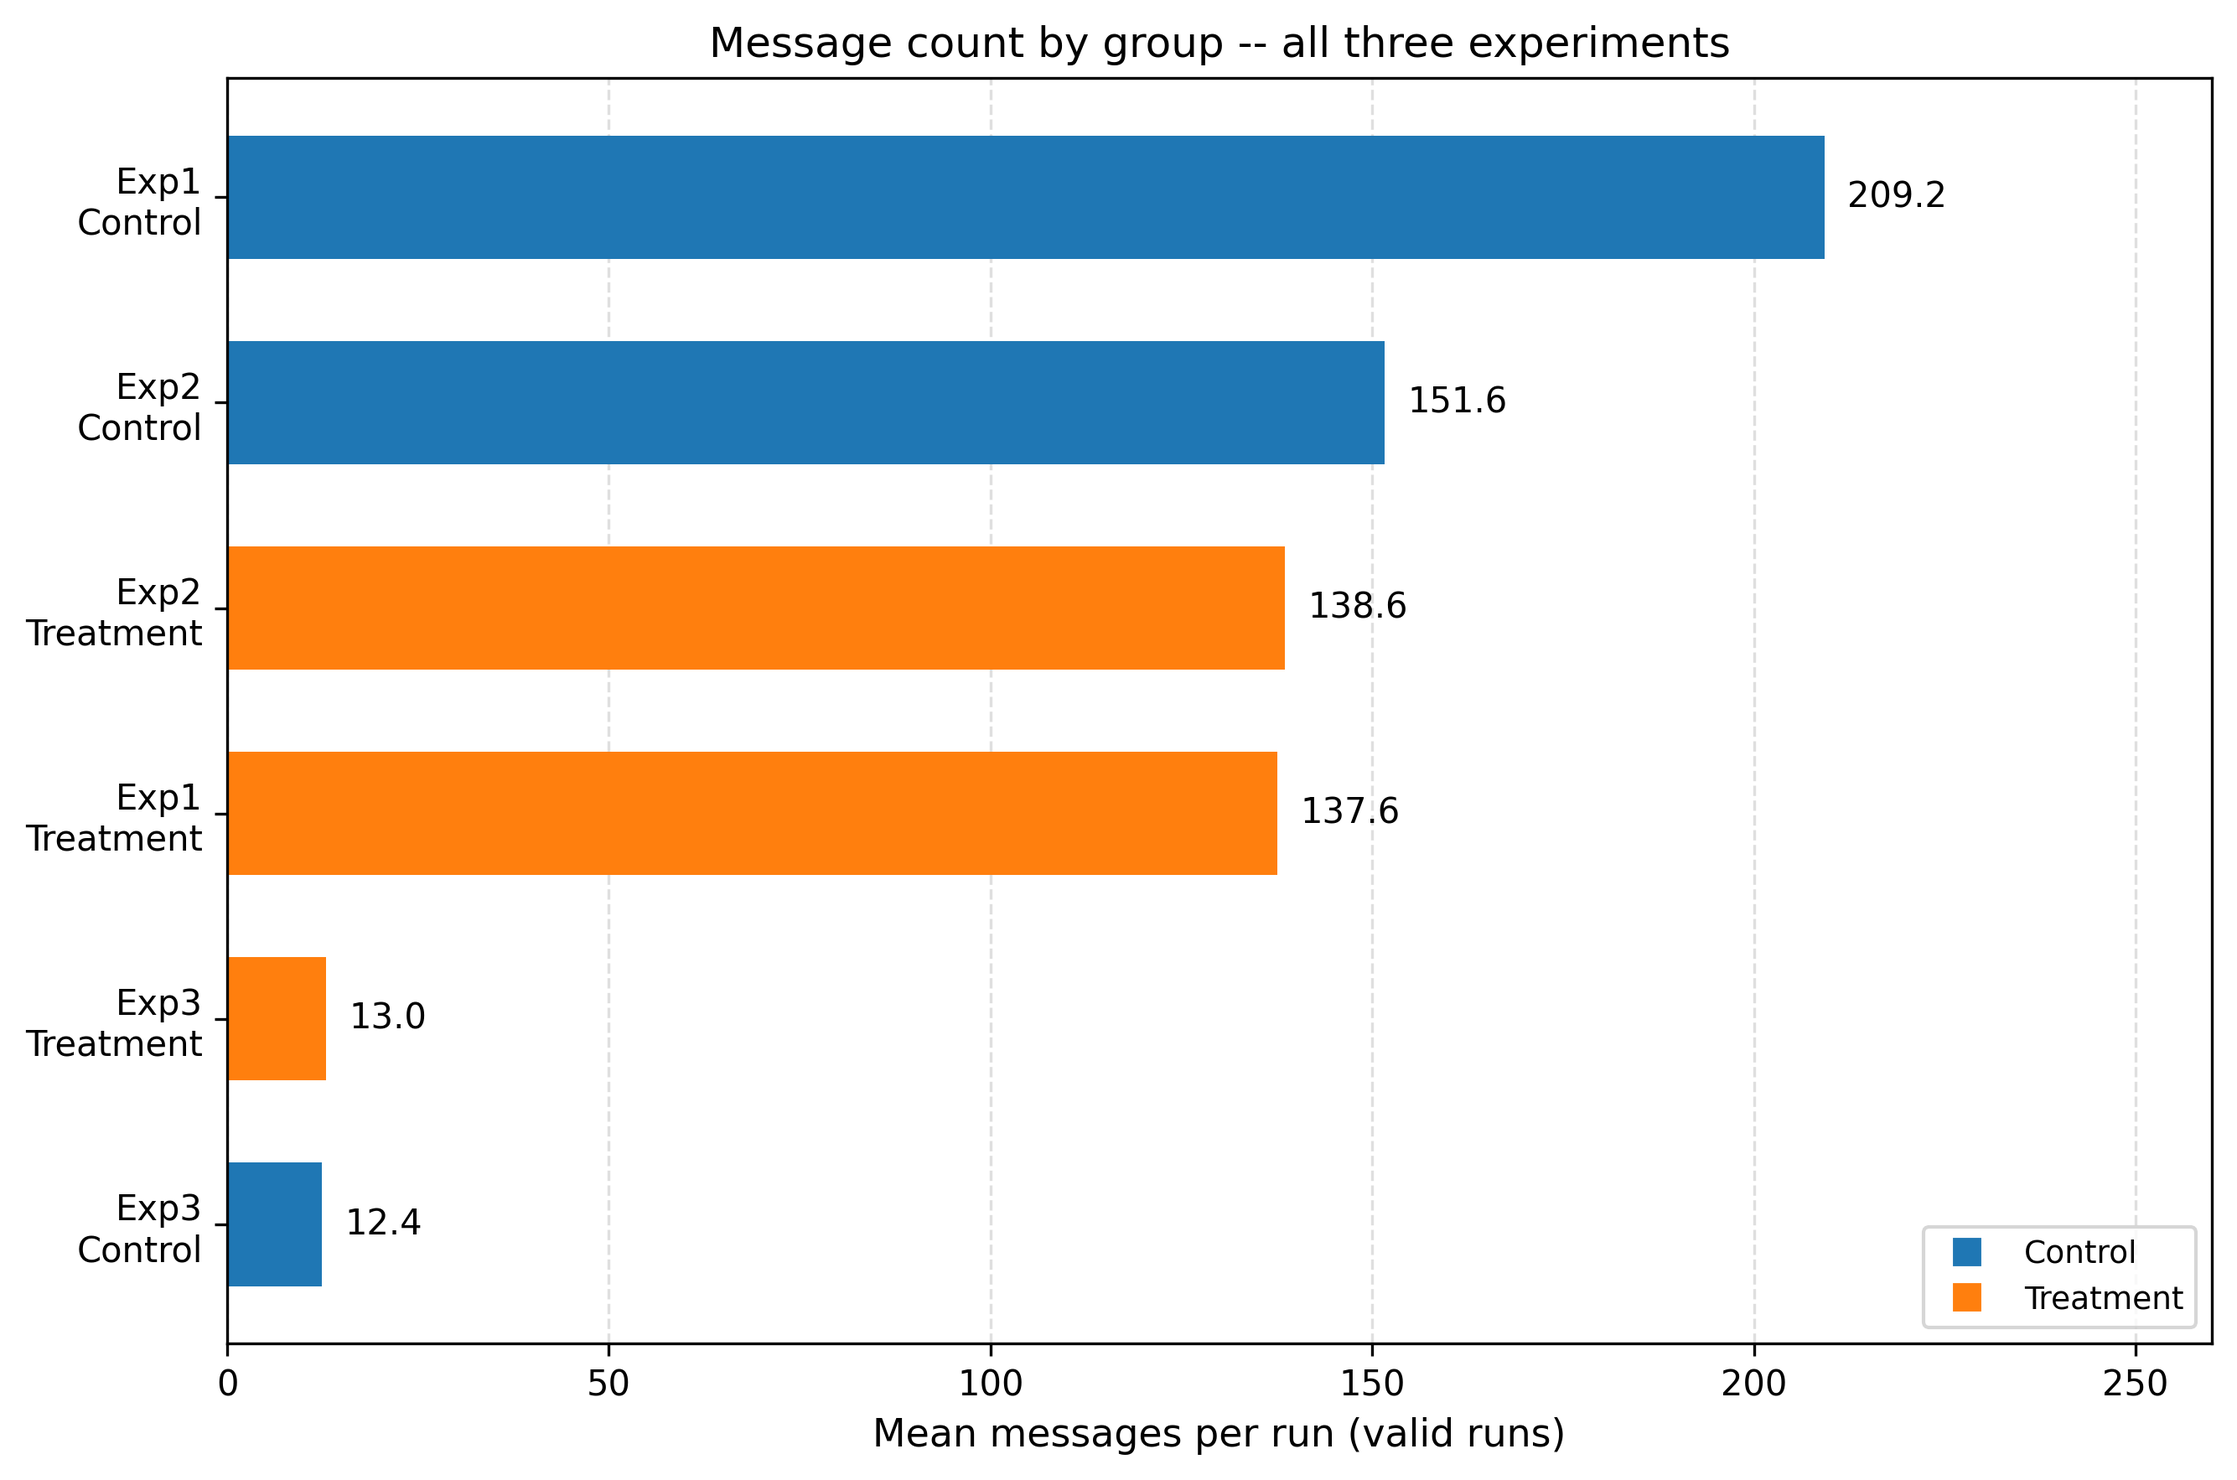
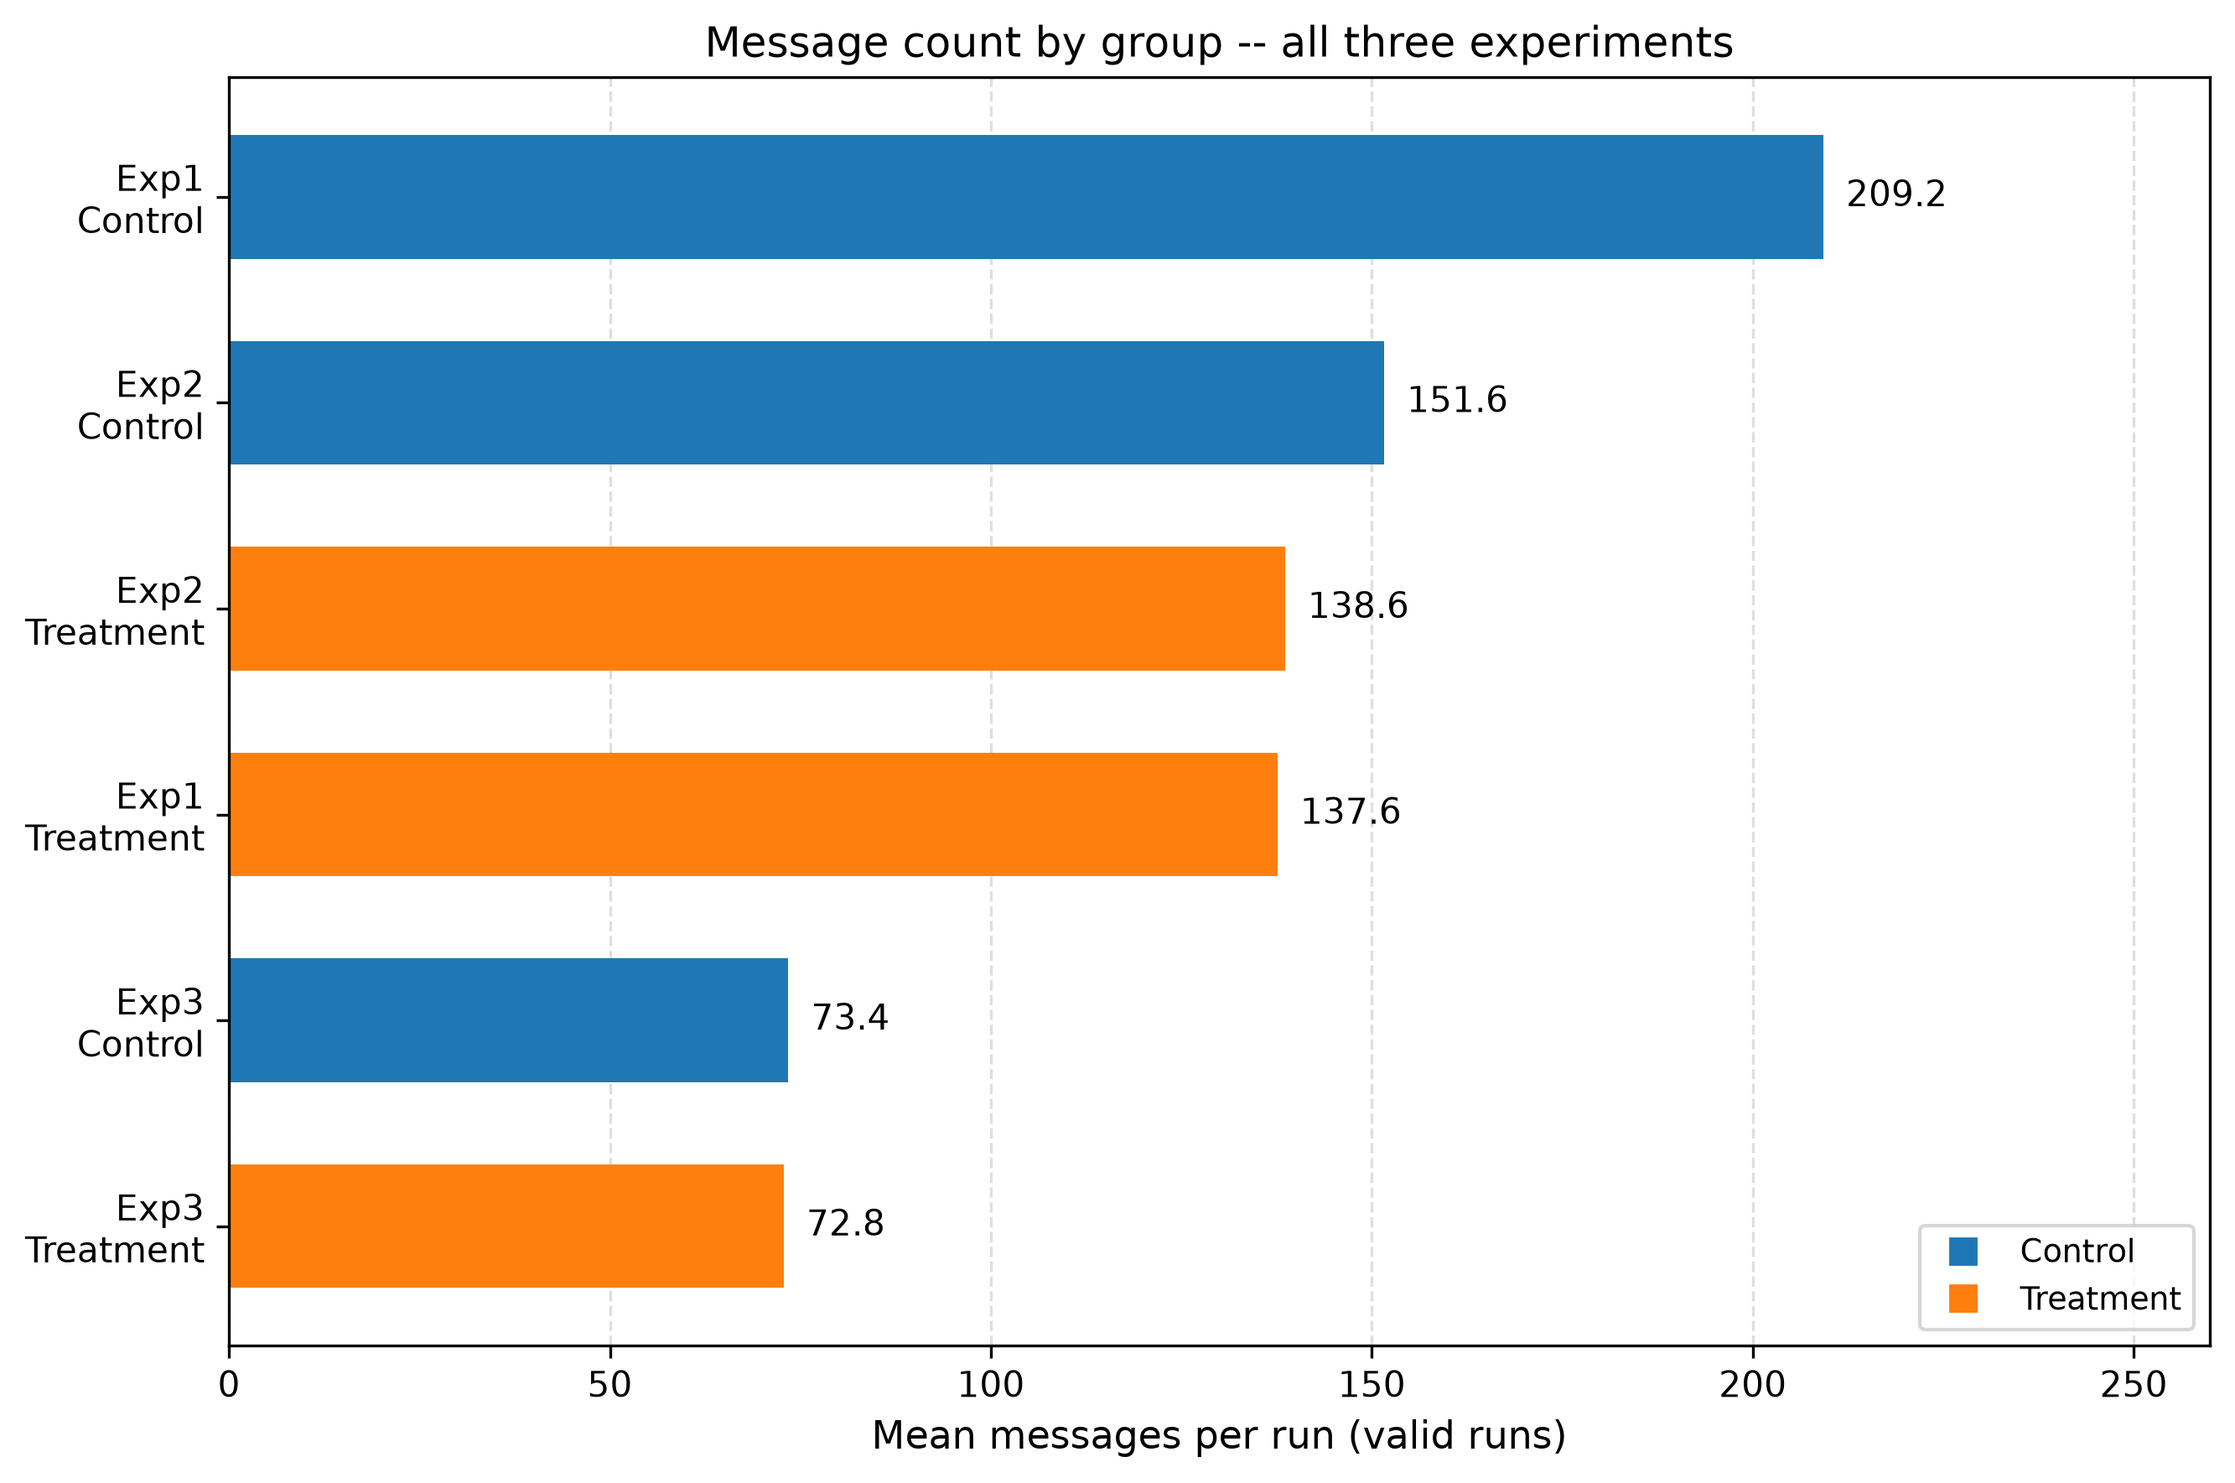
fix(docs): reconcile message counts and Leviathan reference (#107)
Closes #100

diff --git a/paper/paper.tex b/paper/paper.tex
@@ -55,7 +55,7 @@ non-reasoning large language models on retrieval and multiple-choice benchmarks.
 instructions produces similar gains in multi-step agentic pipelines.
 \textbf{Method:} Three pre-registered controlled experiments used Claude Haiku 4.5 delegates
 ($n{=}5$ per condition, temperature 0.5) assigned either a single-copy or a repeated-prompt
-instruction under blinded binary rubric scoring, totalling 30 sessions and 3,196 messages.
+instruction under blinded binary rubric scoring, totalling 30 sessions and 3{,}707 messages.
 \textbf{Results:} Experiment~1 (session-ID refactoring, 6 criteria) yielded a non-significant
 score delta of $+0.30$ with five of six criteria saturated at 100\% in both groups
 (Fisher's $p{=}1.000$).
@@ -318,8 +318,8 @@ In Experiment~1, treatment agents consumed 30.6\% fewer total tokens than contro
 In Experiment~2, treatment agents used 7.2\% more total tokens than control
 (median 703{,}993 vs.\ 755{,}144); sessions were already saturated and no turns were eliminated,
 so the doubled prompt added net input overhead. In Experiment~3, treatment agents
-consumed 19.9\% more total tokens than control (median 41{,}880 vs.\ 50{,}220); sessions averaged
-12 messages with no turns saved, so the doubled prompt imposed pure input overhead with no performance gain.
+consumed 19.9\% more total tokens than control (median 41{,}880 vs.\ 50{,}220); sessions ran to a median
+of 70 messages (control) and 82 messages (treatment) with no turns saved, so the doubled prompt imposed pure input overhead with no performance gain.
 
 \begin{table}[h]
 \centering
@@ -337,8 +337,8 @@ Experiment & Condition & Median Total Tokens & Median Messages & Median Latency 
 \multirow{2}{*}{Exp2} & Control   & 703{,}993  & 142   & 117 \\
                       & Treatment & 755{,}144  & 142   & 112 \\
 \addlinespace
-\multirow{2}{*}{Exp3} & Control   &  41{,}880  &  12   &  62 \\
-                      & Treatment &  50{,}220  &  12   &  72 \\
+\multirow{2}{*}{Exp3} & Control   &  41{,}880  &  70   &  62 \\
+                      & Treatment &  50{,}220  &  82   &  72 \\
 \bottomrule
 \end{tabular}
 \end{table}
@@ -401,7 +401,7 @@ prompt adds $p$ tokens to every prefill. Each avoided turn eliminates $\bar{c}$ 
 accumulated context, where $\bar{c}$ grows with session length. The crossover point $L^*$
 satisfies $p = \bar{c}(L^* - 1)$, giving $L^* \approx p/\bar{c} + 1$: sessions longer than
 $L^*$ yield a net token saving; sessions shorter than $L^*$ incur overhead. For Experiment~3 ($p \approx 950$, $\bar{c} \approx
-3{,}300$ tokens/message), $L^* \approx 1.3$ messages, well below the observed 12-message median.
+600$ tokens/message, from median totals of 41{,}880 and 50{,}220 tokens over 70 and 82 messages), $L^* \approx 950/600 + 1 \approx 2.6$ messages, well below the observed 70- and 82-message medians.
 Yet treatment agents still consumed more tokens, because repeated instructions did not reduce
 turn count: agents could not complete structurally unreachable criteria regardless of
 instruction emphasis, so the turn-count assumption underlying $L^*$ does not hold under

diff --git a/figures/fig3-message-counts.py b/figures/fig3-message-counts.py
@@ -4,9 +4,9 @@ import matplotlib.pyplot as plt
 from matplotlib.lines import Line2D
 
 # Sorted data (ascending by value)
-labels_sorted = ["Exp3\nControl", "Exp3\nTreatment", "Exp1\nTreatment", "Exp2\nTreatment", "Exp2\nControl", "Exp1\nControl"]
-values_sorted = [12.4, 13.0, 137.6, 138.6, 151.6, 209.25]
-colors_sorted = ["#1f77b4", "#ff7f0e", "#ff7f0e", "#ff7f0e", "#1f77b4", "#1f77b4"]
+labels_sorted = ["Exp3\nTreatment", "Exp3\nControl", "Exp1\nTreatment", "Exp2\nTreatment", "Exp2\nControl", "Exp1\nControl"]
+values_sorted = [72.8, 73.4, 137.6, 138.6, 151.6, 209.25]
+colors_sorted = ["#ff7f0e", "#1f77b4", "#ff7f0e", "#ff7f0e", "#1f77b4", "#1f77b4"]
 
 fig, ax = plt.subplots(figsize=(9, 6))
 

diff --git a/README.md b/README.md
@@ -10,7 +10,7 @@
 
 ## Abstract
 
-Verbatim duplication of an input prompt (prompt repetition) has been shown to improve accuracy for non-reasoning LLMs on retrieval and multiple-choice benchmarks (Leviathan et al., 2025). We ask whether the same intervention applied to fixed delegate instructions produces similar gains in multi-step agentic pipelines. We present three pre-registered controlled experiments in which Claude Haiku 4.5 delegates (n=5 per condition, temperature 0.5) were assigned either a single-copy or a repeated-prompt instruction under blinded binary rubric scoring, totalling 30 sessions and 3,196 messages. Experiment 1 (session-ID refactoring, 6 criteria) yielded a non-significant score delta of +0.30, with five of six criteria saturated at 100% in both groups. Experiment 2 (tree-sitter scanner evaluation, 7 criteria) produced a complete ceiling effect with all 10 runs scoring 7/7 (Mann-Whitney U=12.5, p=1.000). Experiment 3 (Kotlin grammar synthesis, 7 criteria) revealed a distinct failure mode: three of seven criteria scored 0/10 across both groups due to rubric-runner co-design failure, where criteria required investigations absent from the runner prompt; on the four reachable criteria the treatment effect was non-significant (U=15, p=0.607). Across all three experiments we detect no effect of prompt repetition on task success. Two calibration failure modes suppressed treatment signal: performance saturation (Experiments 1 and 2) and rubric-runner misalignment (Experiment 3); both are identifiable from the data and constitute methodological findings in their own right.
+Verbatim duplication of an input prompt (prompt repetition) has been shown to improve accuracy for non-reasoning LLMs on retrieval and multiple-choice benchmarks (Leviathan et al., 2025). We ask whether the same intervention applied to fixed delegate instructions produces similar gains in multi-step agentic pipelines. We present three pre-registered controlled experiments in which Claude Haiku 4.5 delegates (n=5 per condition, temperature 0.5) were assigned either a single-copy or a repeated-prompt instruction under blinded binary rubric scoring, totalling 30 sessions and 3,707 messages. Experiment 1 (session-ID refactoring, 6 criteria) yielded a non-significant score delta of +0.30, with five of six criteria saturated at 100% in both groups. Experiment 2 (tree-sitter scanner evaluation, 7 criteria) produced a complete ceiling effect with all 10 runs scoring 7/7 (Mann-Whitney U=12.5, p=1.000). Experiment 3 (Kotlin grammar synthesis, 7 criteria) revealed a distinct failure mode: three of seven criteria scored 0/10 across both groups due to rubric-runner co-design failure, where criteria required investigations absent from the runner prompt; on the four reachable criteria the treatment effect was non-significant (U=15, p=0.607). Across all three experiments we detect no effect of prompt repetition on task success. Two calibration failure modes suppressed treatment signal: performance saturation (Experiments 1 and 2) and rubric-runner misalignment (Experiment 3); both are identifiable from the data and constitute methodological findings in their own right.
 
 Supplementary data for [Ceiling Effects and Convergence: Null Results for Instruction Repetition in LLM-Agent Pipelines](https://clouatre.ca/posts/prompt-repetition-agent-evaluation/). Clouatre, HEC Montréal, 2026.
 
@@ -41,7 +41,7 @@ Experiment setup:
   +-- Treatment group:  5 delegates with repeated instructions (x2)
   +-- Blind scorer:     Rubric-based evaluation (sealed before scoring)
 
-  x3 experiments = 30 delegates total, 3,196 messages, 30 session logs
+  x3 experiments = 30 delegates total, 3,707 messages (3,800 including the excluded Exp1 drift run), 30 session logs
 ```
 
 ---
@@ -391,7 +391,7 @@ This repository contains everything needed to verify our claims and reproduce th
 
 - **Pre-registered protocols** with sealed group assignments (`label-map.json` timestamps predate all scoring)
 - **Exact delegate prompts** preserved as the first message in each `raw/*.jsonl` session log
-- **Full conversation traces** (3,196 messages across 30 session logs) for auditing agent behavior
+- **Full conversation traces** (3,707 messages across 29 valid sessions; 3,800 across all 30 session logs) for auditing agent behavior
 - **Per-criterion scoring justifications** in `scores.json`, not just aggregate numbers
 
 To reproduce with different tasks or models, follow the protocols in `experiments/*/protocol.md` and substitute your target issue and model. The recipe (`recipe/goose-coder-v4.1.0.yaml`) defines the full agent architecture.

diff --git a/experiments/exp3-kotlin-grammar/protocol.md b/experiments/exp3-kotlin-grammar/protocol.md
@@ -19,7 +19,7 @@ These amendments are administrative and methodological. Neither changes rubric c
 
 The target issue [clouatre-labs/code-analyze-mcp#649](https://github.com/clouatre-labs/code-analyze-mcp/issues/649) asks for adding Kotlin grammar support using `tree-sitter-kotlin` version 0.3.8. This requires code synthesis beyond the issue text: confirming language registration, ABI compatibility, node-kind handling, and test coverage for both `.kt` and `.kts` files. The prior experiment (exp2) showed ceiling effects when the rubric was too easy; here the rubric includes six synthesis criteria (C1-C6) and one verification criterion (C7).
 
-Paper: [Leviathan et al. (2025)](https://arxiv.org/abs/2502.07869) - repeating the input prompt verbatim improves non-reasoning LLM accuracy (47/70 wins, 0 losses across 7 models).
+Paper: [Leviathan et al. (2025)](https://arxiv.org/abs/2512.14982) - repeating the input prompt verbatim improves non-reasoning LLM accuracy (47/70 wins, 0 losses across 7 models).
 
 ---
 
@@ -154,7 +154,7 @@ Scoring is binary per criterion (1 = met, 0 = not met). Half-credit is not permi
 
 ## References
 
-- Leviathan, Y. et al., "Prompt Repetition Improves Non-Reasoning LLMs" (2025) - https://arxiv.org/abs/2502.07869
+- Leviathan, Y. et al., "Prompt Repetition Improves Non-Reasoning LLMs" (2025) - https://arxiv.org/abs/2512.14982
 - Experiment 1: [exp1-fastmcp-refactor](../exp1-fastmcp-refactor/protocol.md)
 - Experiment 2: [exp2-treesitter-synthesis](../exp2-treesitter-synthesis/protocol.md)
 - Target issue: https://github.com/clouatre-labs/code-analyze-mcp/issues/649

diff --git a/experiments/exp2-treesitter-synthesis/protocol.md b/experiments/exp2-treesitter-synthesis/protocol.md
@@ -10,7 +10,7 @@ This is the second experiment in the prompt repetition series, designed to addre
 
 The first experiment (FastMCP refactor analysis) produced a null result because the task was too easy: C1-C4 and C6 hit 100% in both groups. This experiment targets a harder issue that requires synthesis across the codebase, external API research, and judgment under ambiguity -- not just information retrieval. Ceiling effect is unlikely.
 
-Paper: [Leviathan et al. (2025)](https://arxiv.org/abs/2502.07869) -- repeating the input prompt verbatim improves non-reasoning LLM accuracy (47/70 wins, 0 losses across 7 models).
+Paper: [Leviathan et al. (2025)](https://arxiv.org/abs/2512.14982) -- repeating the input prompt verbatim improves non-reasoning LLM accuracy (47/70 wins, 0 losses across 7 models).
 
 ## Why This Task is Harder
 
@@ -139,7 +139,7 @@ Scoring is binary per criterion (1 = met, 0 = not met). Half-credit is not permi
 
 ## References
 
-- Leviathan, Y. et al., "Prompt Repetition Improves Non-Reasoning LLMs" (2025) -- https://arxiv.org/abs/2502.07869
+- Leviathan, Y. et al., "Prompt Repetition Improves Non-Reasoning LLMs" (2025) -- https://arxiv.org/abs/2512.14982
 - First experiment: [exp1-fastmcp-refactor](../exp1-fastmcp-refactor/protocol.md)
 - Target issue: https://github.com/clouatre-labs/aptu/issues/737
 - SecurityScanner context: [aptu#735](https://github.com/clouatre-labs/aptu/issues/735), [PR #736](https://github.com/clouatre-labs/aptu/pull/736)

diff --git a/experiments/exp1-fastmcp-refactor/protocol.md b/experiments/exp1-fastmcp-refactor/protocol.md
@@ -6,7 +6,7 @@
 
 ## Context
 
-This experiment tests whether [prompt repetition](https://arxiv.org/abs/2502.07869) (repeating delegate instructions verbatim) improves AI agent accuracy on a structured engineering research task.
+This experiment tests whether [prompt repetition](https://arxiv.org/abs/2512.14982) (repeating delegate instructions verbatim) improves AI agent accuracy on a structured engineering research task.
 
 The paper reports that repeating the input prompt verbatim improves non-reasoning LLM accuracy (47/70 wins, 0 losses across 7 models). This experiment applies the technique to a real-world engineering task executed by parallel AI agent delegates.
 
@@ -64,5 +64,5 @@ After this experiment completes, use the highest-scoring Scout output (control o
 
 ## References
 
-- Leviathan, Y. et al., "Prompt Repetition Improves Non-Reasoning LLMs" (2025) -- https://arxiv.org/abs/2502.07869
+- Leviathan, Y. et al., "Prompt Repetition Improves Non-Reasoning LLMs" (2025) -- https://arxiv.org/abs/2512.14982
 - Target issue: https://github.com/clouatre-labs/math-mcp-learning-server/issues/222

diff --git a/DATA_DICTIONARY.md b/DATA_DICTIONARY.md
@@ -107,6 +107,8 @@ Experiment data is organized into three experiments (exp1-fastmcp-refactor, exp2
 
 **Schema normalization note**: As of this PR, `latency_seconds`, `message_count`, and `goose_session_id` are present in all experiments' session files, providing consistent provenance tracking across all three experimental runs.
 
+**Message count definition**: All published message counts (README, paper, `.zenodo.json`, `CITATION.cff`, `turn-efficiency.json`, and Figure 3) are defined as the sum of `runs[*].messages` in each `experiments/exp*/analysis.json`. These values are sourced from `sessions.db` and total 3,800 messages across all 30 session logs, including the excluded Exp1 drift run `scout-control-1` (93 messages); the headline total of 3,707 covers the 29 valid sessions. The run-time `message_count` fields in `efficiency.json` and `latency-log.jsonl` are a different measure and are not authoritative (null or absent for Exp3), so they must not be used for published counts.
+
 **Scores object** (within run record):
 
 | Field | Type | Description | Source |

diff --git a/experiments/exp3-kotlin-grammar/scorer-prompt.md b/experiments/exp3-kotlin-grammar/scorer-prompt.md
@@ -58,7 +58,7 @@ Scoring is binary per criterion (1 = met, 0 = not met). Half-credit is not permi
 
 ## References
 
-- Leviathan, Y. et al., "Prompt Repetition Improves Non-Reasoning LLMs" (2025) - https://arxiv.org/abs/2502.07869
+- Leviathan, Y. et al., "Prompt Repetition Improves Non-Reasoning LLMs" (2025) - https://arxiv.org/abs/2512.14982
 - Experiment 1: [exp1-fastmcp-refactor](../exp1-fastmcp-refactor/protocol.md)
 - Experiment 2: [exp2-treesitter-synthesis](../exp2-treesitter-synthesis/protocol.md)
 - Target issue: https://github.com/clouatre-labs/code-analyze-mcp/issues/649
